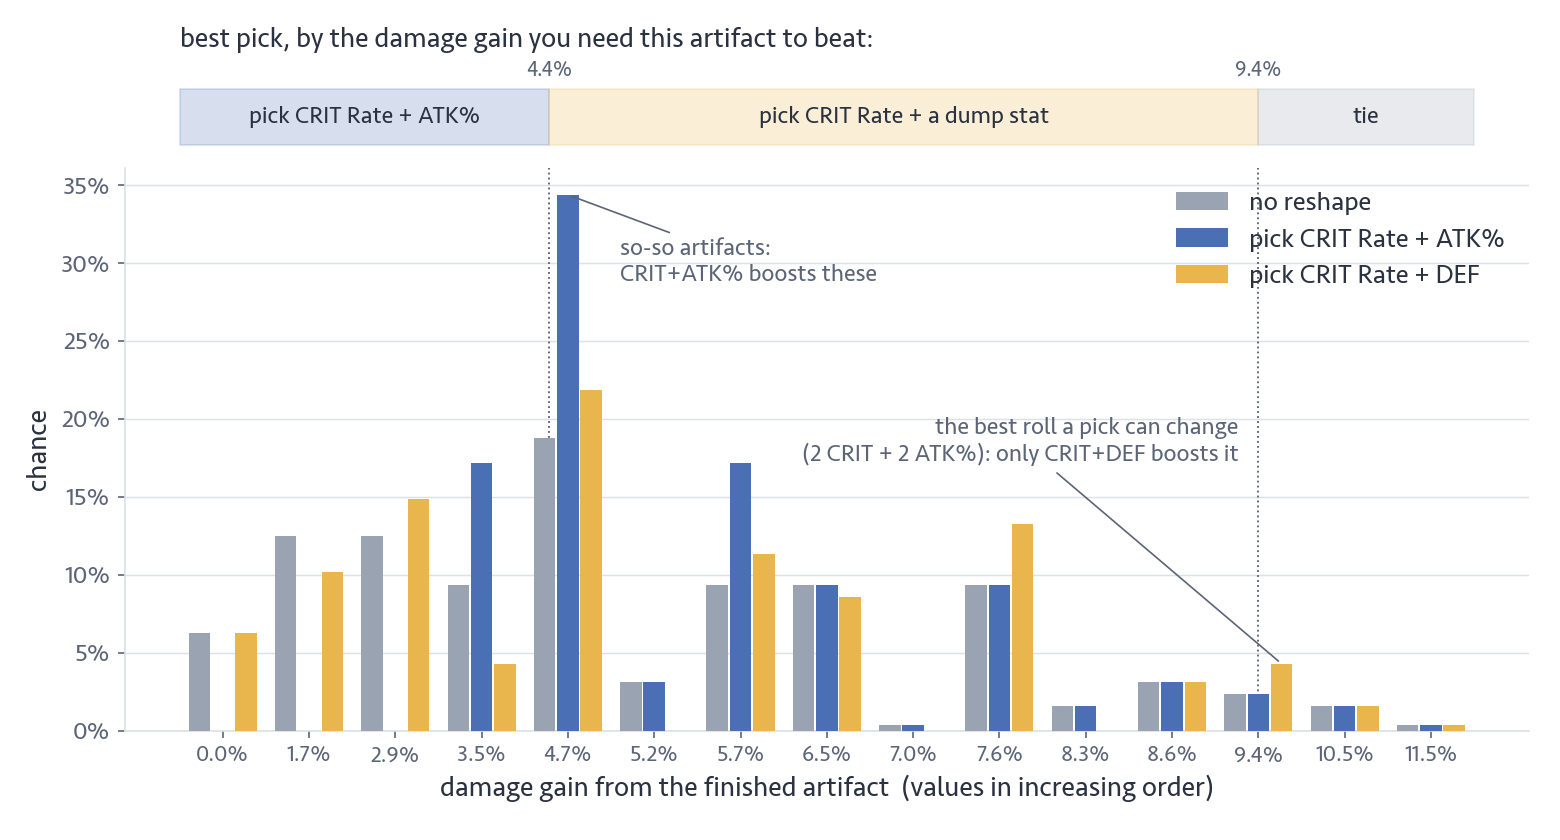
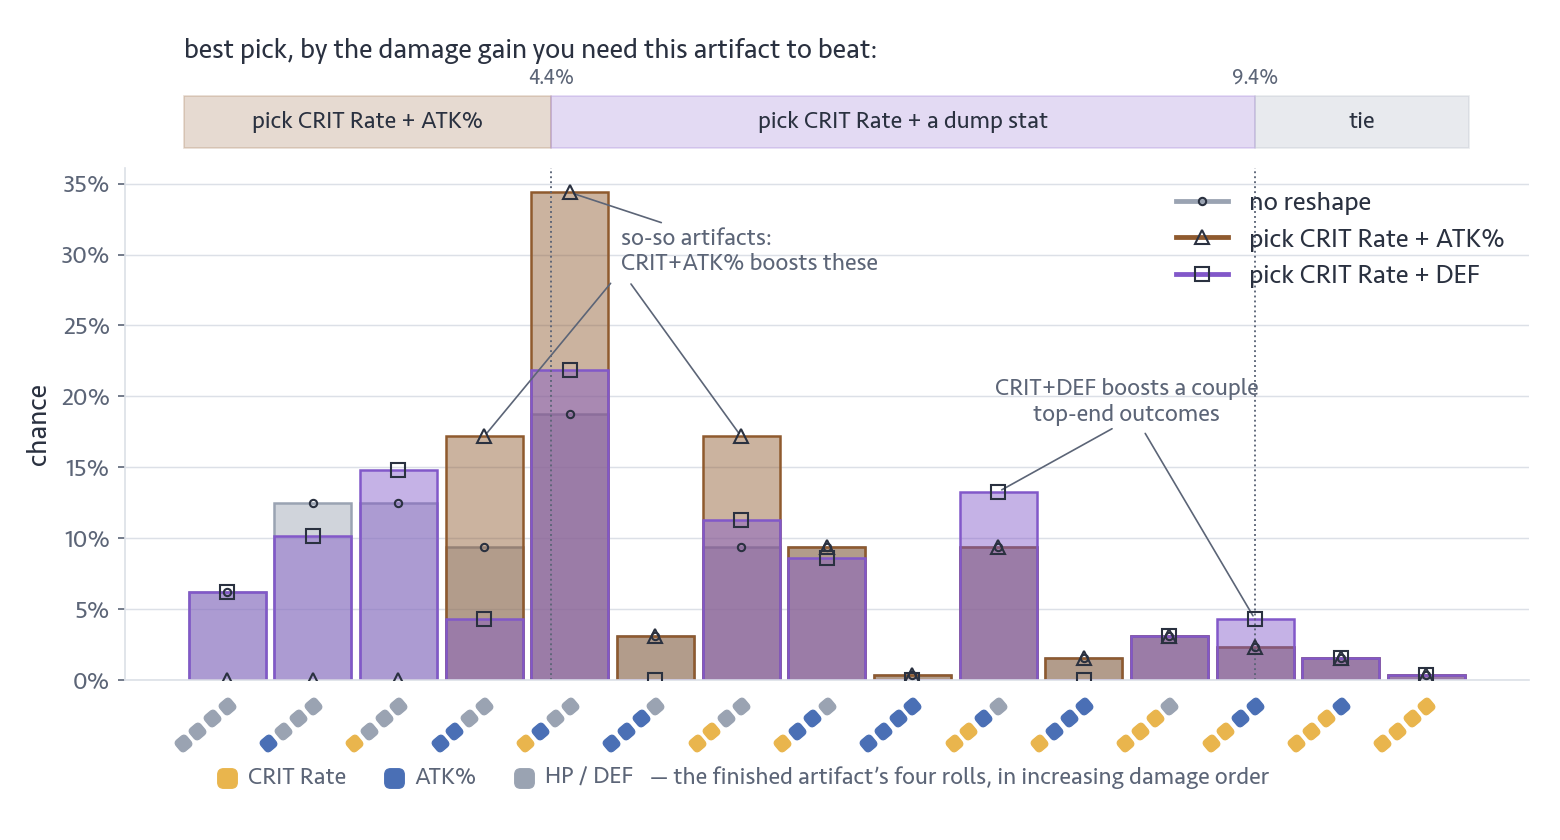
rework fig 2

diff --git a/make_image2.py b/make_image2.py
@@ -10,10 +10,29 @@ Run:  python make_image2.py
 """
 import matplotlib.pyplot as plt
 import numpy as np
+from matplotlib.colors import to_rgba
+from matplotlib.patches import BoxStyle
+from matplotlib.transforms import Affine2D, offset_copy
+from scipy.interpolate import PchipInterpolator
 
 import reshape_common as rc
 
 OUT = 'images/Image2-guarantee-vs-thr.png'
+
+# X-axis pip chain: PIP_ANGLE tilts both the chain of four pips and the
+# pips themselves (45deg -> diamonds tiling along the diagonal). PIP_STEP
+# is their center-to-center spacing in points; PIP_Y is the axis-fraction
+# height of the chain's top (last) pip, which lands at the bin center.
+PIP_ANGLE = 40.0
+PIP_STEP = 9.3
+PIP_Y = -0.05
+
+# Pip glyph: a rounded square (the .pip CSS in the infographic template,
+# 11px box / 3px radius). On the axis it is tilted by PIP_ANGLE; the
+# legend key uses it upright.
+PIP_SQUARE = BoxStyle('round', pad=0, rounding_size=0.3)(
+    -0.5, -0.5, 1.0, 1.0, 1.0)
+PIP_MARKER = PIP_SQUARE.transformed(Affine2D().rotate_deg(PIP_ANGLE))
 
 
 def render(theme, report=False):
@@ -24,8 +43,8 @@ def render(theme, report=False):
 
     configs = [
         ('no reshape', (0, 1), 0, rc.GRAY),
-        ('pick CRIT Rate + ATK%', (0, 1), rc.MN, rc.BLUE),
-        ('pick CRIT Rate + DEF', (0, 3), rc.MN, rc.GOLD),
+        ('pick CRIT Rate + ATK%', (0, 1), rc.MN, rc.BROWN),
+        ('pick CRIT Rate + DEF', (0, 3), rc.MN, rc.PURPLE),
     ]
     # Total chance of each damage value under each config.
     dists = []
@@ -35,36 +54,99 @@ def render(theme, report=False):
                                for v in uvals]))
 
     fig, ax = plt.subplots(figsize=(10.4, 5.6), dpi=150)
-    fig.subplots_adjust(left=0.08, right=0.98, top=0.80, bottom=0.13)
+    fig.subplots_adjust(left=0.08, right=0.98, top=0.80, bottom=0.19)
     rc.style_axes(ax)
 
-    width = 0.25
-    for k, ((name, _, _, color), dist) in enumerate(zip(configs, dists)):
-        ax.bar(slots + (k - 1) * width * 1.08, dist, width=width,
-               label=name, color=color, linewidth=0, zorder=3)
+    # Three overlaid histograms (one per config, all centered on each bin),
+    # each capped by a smooth spline through its bar tops. A distinct hollow
+    # marker at every bin tip keeps the splines legible where they overlap.
+    width = 0.9
+    markers = ['.', '^', 's']
+    xg = np.linspace(slots[0], slots[-1], 400)
+    for (name, _, _, color), dist, mk in zip(configs, dists, markers):
+        # Translucent fill (RGBA so alpha doesn't dim the edge) with a solid
+        # outline in the config color.
+        ax.bar(slots, dist, width=width, facecolor=to_rgba(color, 0.46),
+               edgecolor=color, linewidth=1.2, zorder=2)
+        # ax.plot(xg, PchipInterpolator(slots, dist)(xg), color=color,
+        #         linewidth=2.3, zorder=4)
+        # One ink color for every tip (rc.TEXT tracks the theme, so it reads
+        # on the light page and the dark navy alike); shape tells them apart.
+        ax.plot(slots, dist, linestyle='none', marker=mk, markersize=7.,
+                markerfacecolor='none', markeredgecolor=rc.TEXT,
+                markeredgewidth=1., zorder=5)
 
-    ax.set_xticks(slots, [f'{v * 100:.1f}%' for v in uvals], fontsize=10.8)
-    ax.set_xlabel('damage gain from the finished artifact  '
-                  '(values in increasing order)', fontsize=13.2)
+    # X labels: the four substat rolls behind each damage value, drawn as
+    # pips (gold = CRIT Rate, blue = ATK%, gray = junk HP/DEF). Each unique
+    # damage value pins down one (CRIT, ATK%) count, the rest being junk.
+    ab_of = {}
+    for c, v in zip(subs, vals):
+        ab_of.setdefault(round(float(v), 9), (int(c[0]), int(c[1])))
+    xt = ax.get_xaxis_transform()
+
+    def pip(x, y, color, dx=0.0, dy=0.0, marker=PIP_MARKER):
+        # dx/dy are screen-space point offsets from the (x, y) anchor, so a
+        # row of pips can climb at a true 45deg regardless of axis scaling.
+        tr = offset_copy(xt, fig=fig, x=dx, y=dy, units='points')
+        ax.plot([x], [y], marker=marker, markersize=9.4, color=color,
+                markeredgecolor=color, markeredgewidth=0.6,
+                linestyle='none', transform=tr, clip_on=False, zorder=4)
+
+    rad = np.deg2rad(PIP_ANGLE)
+    for s, v in zip(slots, uvals):
+        a, b = ab_of[round(float(v), 9)]
+        cols = [rc.GOLD] * a + [rc.BLUE] * b + [rc.GRAY] * (rc.N_ROLLS - a - b)
+        for i, col in enumerate(cols):
+            # Chain climbs to the right; the last pip lands at the bin center.
+            off = (i - (rc.N_ROLLS - 1)) * PIP_STEP
+            pip(s, PIP_Y, col, dx=off * np.cos(rad), dy=off * np.sin(rad))
+    ax.set_xticks(slots, [''] * len(slots))
+    ax.tick_params(axis='x', length=0)
+
+    # Pip key, doubling as the x-axis caption.
+    key = [(rc.GOLD, 'CRIT Rate'), (rc.BLUE, 'ATK%'),
+           (rc.GRAY, 'HP / DEF')]
+    kx, ky = 0.0, -0.19
+    for col, txt in key:
+        pip(kx, ky, col, marker=PIP_SQUARE)
+        t = ax.annotate(txt, xy=(kx, ky), xytext=(10, 0),
+                        textcoords='offset points', xycoords=xt,
+                        va='center', ha='left', fontsize=11.4, color=rc.MUTED)
+        fig.canvas.draw()
+        bb = t.get_window_extent().transformed(xt.inverted())
+        kx = bb.x1 + 0.55
+    ax.annotate('— the finished artifact’s four rolls, in increasing '
+                'damage order', xy=(kx - 0.35, ky), xycoords=xt,
+                va='center', ha='left', fontsize=11.4, color=rc.MUTED)
     ax.set_ylabel('chance', fontsize=13.2)
     ax.yaxis.set_major_formatter(lambda y, _: f'{y:.0%}')
-    ax.legend(loc='upper right', frameon=False, fontsize=12.6)
+    handles = [plt.Line2D([0], [0], color=color, linewidth=2.3, marker=mk,
+                          markersize=7., markerfacecolor='none',
+                          markeredgecolor=rc.TEXT, markeredgewidth=1.)
+               for (name, _, _, color), mk in zip(configs, markers)]
+    ax.legend(handles, [c[0] for c in configs], loc='upper right',
+              frameon=False, fontsize=12.6)
 
-    # Callouts for the two outcomes the story hinges on, located by their
-    # roll counts so they track the damage formula.
-    def callout(counts, k, text, dx, dy, ha):
-        slot = int(np.argmin(np.abs(uvals - rc.fn(counts))))
-        x = slot + (k - 1) * width * 1.08
-        y = dists[k][slot]
-        ax.annotate(text, xy=(x, y), xytext=(x + dx, y + dy),
-                    fontsize=11.4, color=rc.MUTED, ha=ha,
-                    arrowprops=dict(arrowstyle='-', color=rc.MUTED,
-                                    linewidth=0.8))
-    callout([1, 1, 2, 0], 1, 'so-so artifacts:\nCRIT+ATK% boosts these',
-            0.6, -0.055, 'left')
-    callout([2, 2, 0, 0], 2, 'the best roll a pick can change\n'
-                             '(2 CRIT + 2 ATK%): only CRIT+DEF boosts it',
-            -0.5, 0.13, 'right')
+    # Callouts for the outcomes the story hinges on, located by their roll
+    # counts so they track the damage formula. Each callout can point to
+    # several buckets: the text anchors on the first, leaders reach the rest.
+    def callout(buckets, k, text, dx, dy, ha):
+        def tip(counts):
+            slot = int(np.argmin(np.abs(uvals - rc.fn(counts))))
+            return slot, dists[k][slot]
+        x0, y0 = tip(buckets[0])
+        tx, ty = x0 + dx, y0 + dy
+        leader = dict(arrowstyle='-', color=rc.MUTED, linewidth=0.8)
+        ax.annotate(text, xy=(x0, y0), xytext=(tx, ty),
+                    fontsize=11.4, color=rc.MUTED, ha=ha, arrowprops=leader)
+        for counts in buckets[1:]:
+            xi, yi = tip(counts)
+            ax.annotate('', xy=(xi, yi), xytext=(tx, ty),
+                        arrowprops=dict(leader, shrinkA=8))
+    callout([[1, 1, 2, 0], [0, 2, 2, 0], [2, 0, 2, 0]], 1,
+            'so-so artifacts:\nCRIT+ATK% boosts these', 0.6, -0.055, 'left')
+    callout([[2, 2, 0, 0], [2, 1, 1, 0]], 2,
+            'CRIT+DEF boosts a couple\ntop-end outcomes', -1.5, 0.14, 'center')
 
     # Strip above the bars: the best pick, by where your bar sits.
     prefs = rc.calc_preference()
@@ -86,8 +168,8 @@ def render(theme, report=False):
     def pos(t):
         return float(np.interp(t, uvals, slots))
 
-    strip_colors = {'pick CRIT Rate + ATK%': rc.BLUE,
-                    'pick CRIT Rate + a dump stat': rc.GOLD,
+    strip_colors = {'pick CRIT Rate + ATK%': rc.BROWN,
+                    'pick CRIT Rate + a dump stat': rc.PURPLE,
                     'tie': rc.GRAY}
     y0, y1 = 1.04, 1.14
     for i, (lo, hi, label) in enumerate(zones):

diff --git a/reshape_common.py b/reshape_common.py
@@ -125,12 +125,14 @@ _THEMES = {
         TEXT='#2a3140', MUTED='#5c6577', LINE='#dce0e7',
         PAGE_BG='#f5f6f8', GOLD='#e9b54d', GOLD_DEEP='#c28f2c',
         BLUE='#4a6fb5', GRAY='#9aa3b2', GREEN='#3e8e4b', RED='#b8402f',
+        PURPLE='#8258c9', BROWN='#8f5a2e',
         CARD='#ffffff', CARD_EDGE='#dce0e7', CARD_TEXT='#000000', PIP_EMPTY='#7d8798',
     ),
     'dark': dict(
         TEXT='#e7eaf1', MUTED='#9aa3b5', LINE='#333a48',
         PAGE_BG='#1e222b', GOLD='#e9b54d', GOLD_DEEP='#d9a53e',
         BLUE='#7095d6', GRAY='#7f8a9c', GREEN='#5fae6d', RED='#d0604d',
+        PURPLE='#a98fe0', BROWN='#bd8a58',
         CARD='#313949', CARD_EDGE='none', CARD_TEXT='#f2f4f8', PIP_EMPTY='#55607a',
     ),
 }